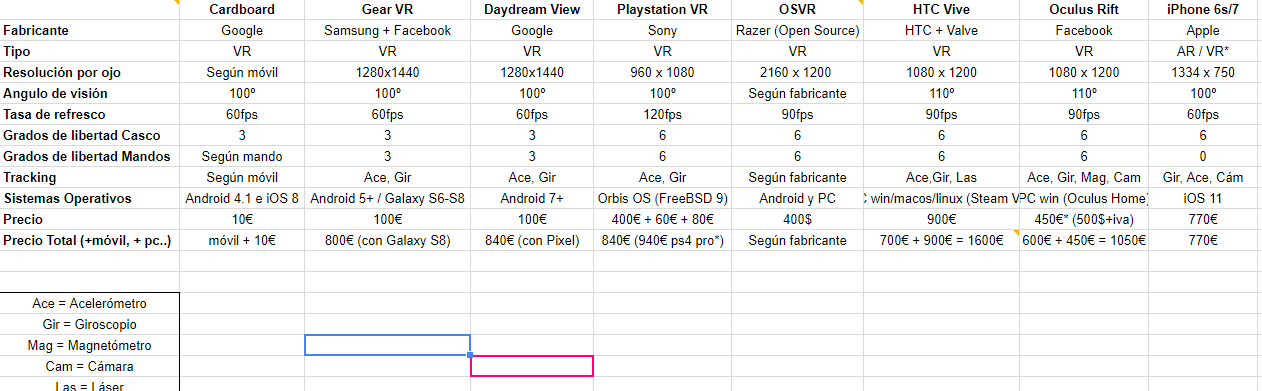
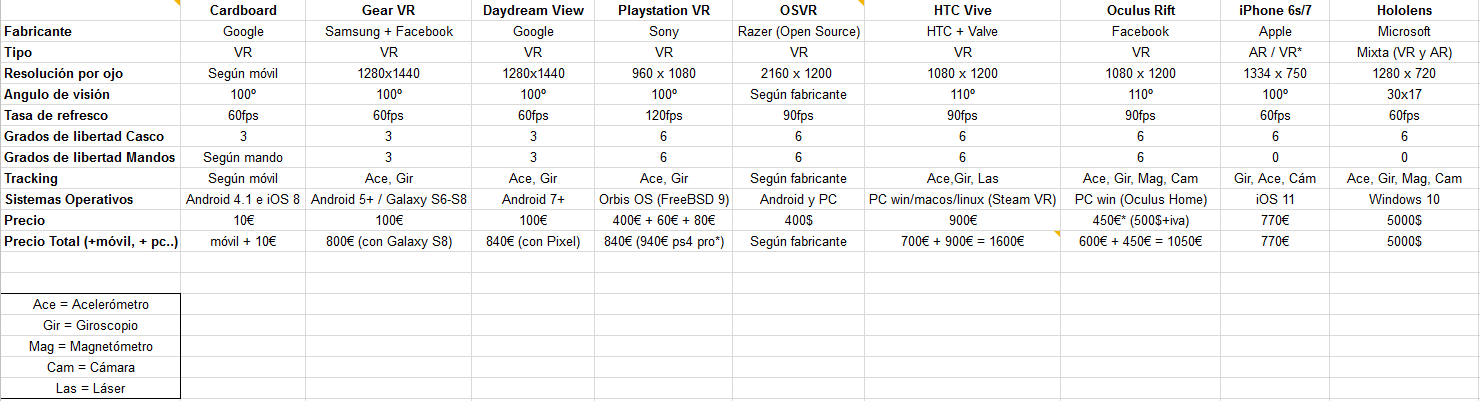
updates

Changed region(s): [[0.0, 0.0, 1.0, 1.0], [0.7108, 0.0, 0.8035, 0.0921], [0.0, 0.0614, 0.0618, 0.0921]]

diff --git a/src/main.css b/src/main.css
@@ -29,7 +29,7 @@ html:-moz-full-screen-ancestor {
   font-size: 38px;
   font-weight: normal;
   color: #333;
-  text-shadow: 2px 2px 5px #fff;
+  text-shadow: 1px 1px 3px #fff;
 }
 
 ::selection {

diff --git a/content.md b/content.md
@@ -18,9 +18,11 @@ Situación / posibilidades a hoy en día
 
 ---
 
-# VR vs AR
+Arquitectura HW + SW que permite simular la presencia física del usuario en un entorno "virtual" o distinto al real.
 
-<img src="media/img/vrar.png">
+---
+
+<img data-src="media/img/virtuality.png">
 
 ------
 
@@ -32,7 +34,7 @@ Situación / posibilidades a hoy en día
 
 <img data-src="media/img/vrscreens.jpg">
 
-- 2 pantallas/imágenes alta resolución
+- 1 imágen por ojo (alta resolución)
 - Mínimo 90 fps
 - Persistencia píxel < 3ms
 - Baja latencia input-output
@@ -47,7 +49,7 @@ Situación / posibilidades a hoy en día
 
 ---
 
-<a href="media/img/vrflow.png"><img src="media/img/vrflow.png"></a>
+<a href="media/img/vrflow.png"><img data-src="media/img/vrflow.png"></a>
 
 ------
 
@@ -60,11 +62,11 @@ Situación / posibilidades a hoy en día
 
 <div class="sideimg">
   <div class="images">
-    <img src="media/img/cardboard.png" class="sideimg">
+    <img data-src="media/img/cardboard.png" class="sideimg">
   </div>
   <div>
     <ul>
-      <li>Casco de cartón* donde metes el teléfono</li>
+      <li>Casco donde metes el teléfono</li>
       <li>3DOF</li>
       <li>Fijar la mirada</li>
     </ul>
@@ -77,12 +79,12 @@ Situación / posibilidades a hoy en día
 
 <div class="sideimg">
   <div class="images">
-    <img src="media/img/gearvr.png">
-    <img src="media/img/daydream.png">
+    <img data-src="media/img/gearvr.png">
+    <img data-src="media/img/daydream.png">
   </div>
   <div>
     <ul>
-      <li>Cascos de plástico donde metes el teléfono</li>
+      <li>Casco donde metes un teléfono Samsung o Pixel</li>
       <li>3DOF</li>
       <li>Mandos 3DOF</li>
     </ul>
@@ -96,9 +98,9 @@ Situación / posibilidades a hoy en día
 
 <div class="sideimg">
   <div class="images small">
-    <img src="media/img/playstation.png">
-    <img src="media/img/oculus.png">
-    <img src="media/img/vive.png">
+    <img data-src="media/img/playstation.png">
+    <img data-src="media/img/oculus.png">
+    <img data-src="media/img/vive.png">
   </div>
   <div>
     <ul>
@@ -120,8 +122,8 @@ Situación / posibilidades a hoy en día
 
 <div class="sideimg">
   <div class="">
-    <img src="media/img/iphone.jpg">
-    <img src="media/img/hololens.jpg">
+    <img data-src="media/img/iphone.jpg">
+    <img data-src="media/img/hololens.jpg">
   </div>
   <div>
     <ul>
@@ -134,7 +136,7 @@ Situación / posibilidades a hoy en día
 
 ---
 
-<a href="media/img/comparativa.png"><img src="media/img/comparativa.png"></a>
+<a href="media/img/comparativa.png"><img data-src="media/img/comparativa.png"></a>
 
 ------
 
@@ -144,7 +146,7 @@ Situación / posibilidades a hoy en día
 
 ## Nativo (OpenGL / DirectX)
 
-- Unity / Unreal / CryEngine / libGDX  / otros / a pinrel
+<img data-src="media/img/engines.png">
 
 <!-- NOTES -->
 Ventajas: 
@@ -160,9 +162,7 @@ Desventajas:
 
 ## Web (WebGL + WebVR)
 
-- Three.js &rarr; A-Frame, ReactVR 
-- Babylon.js
-- Blend4Web
+<img data-src="media/img/frameworks.png">
 
 <!-- NOTES -->
 
@@ -193,6 +193,14 @@ Desventajas:
 
 # Aplicaciones prácticas
 
+- **Entretenimiento y Arte** (juegos, películas, eventos...)
+- **Medicina y psicología** (fobias, percepción, dolor...)
+- **Productividad** (office, cad..)
+- **Publicidad**
+- **Divulgación y enseñanza** (museos, lugares...)
+- **Simuladores de tareas** (oficios, ejército, habilidades...)
+- **Comunicación**
+- **???**
 
 <!-- NOTES -->
 Entretenimiento y Arte
@@ -227,11 +235,13 @@ Comunicación
 - Redes sociales (Metaverso)
 - Trabajo a distancia
 
+---
+<img data-src="media/img/asilo.jpg">
 ------
 
 # Consideraciones
 
-- Malestar físico
+- Salud
 - Privacidad
 - Problemas sociales y éticos
 
@@ -246,6 +256,6 @@ Comunicación
 
 ------
 
-## Gracias! :)
+## Gracias!
 
 ### ¿preguntas?
